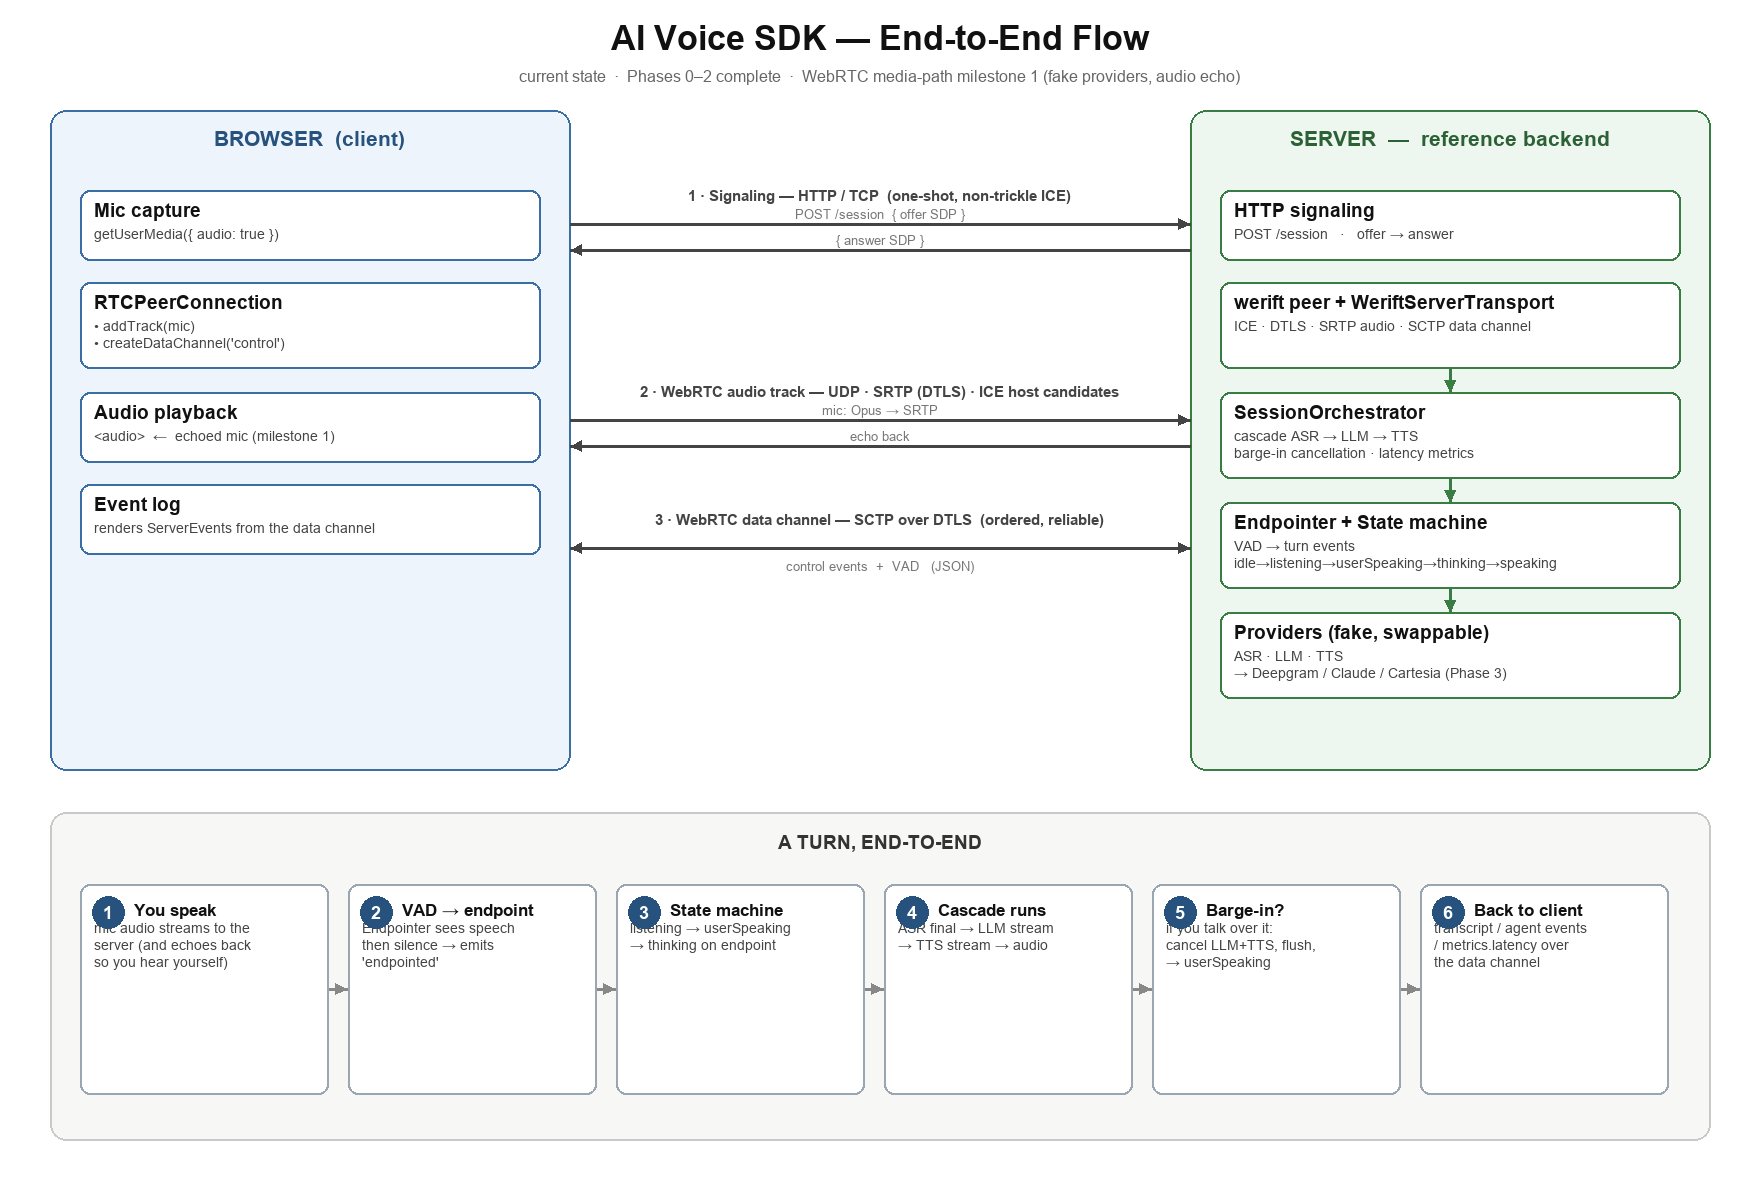
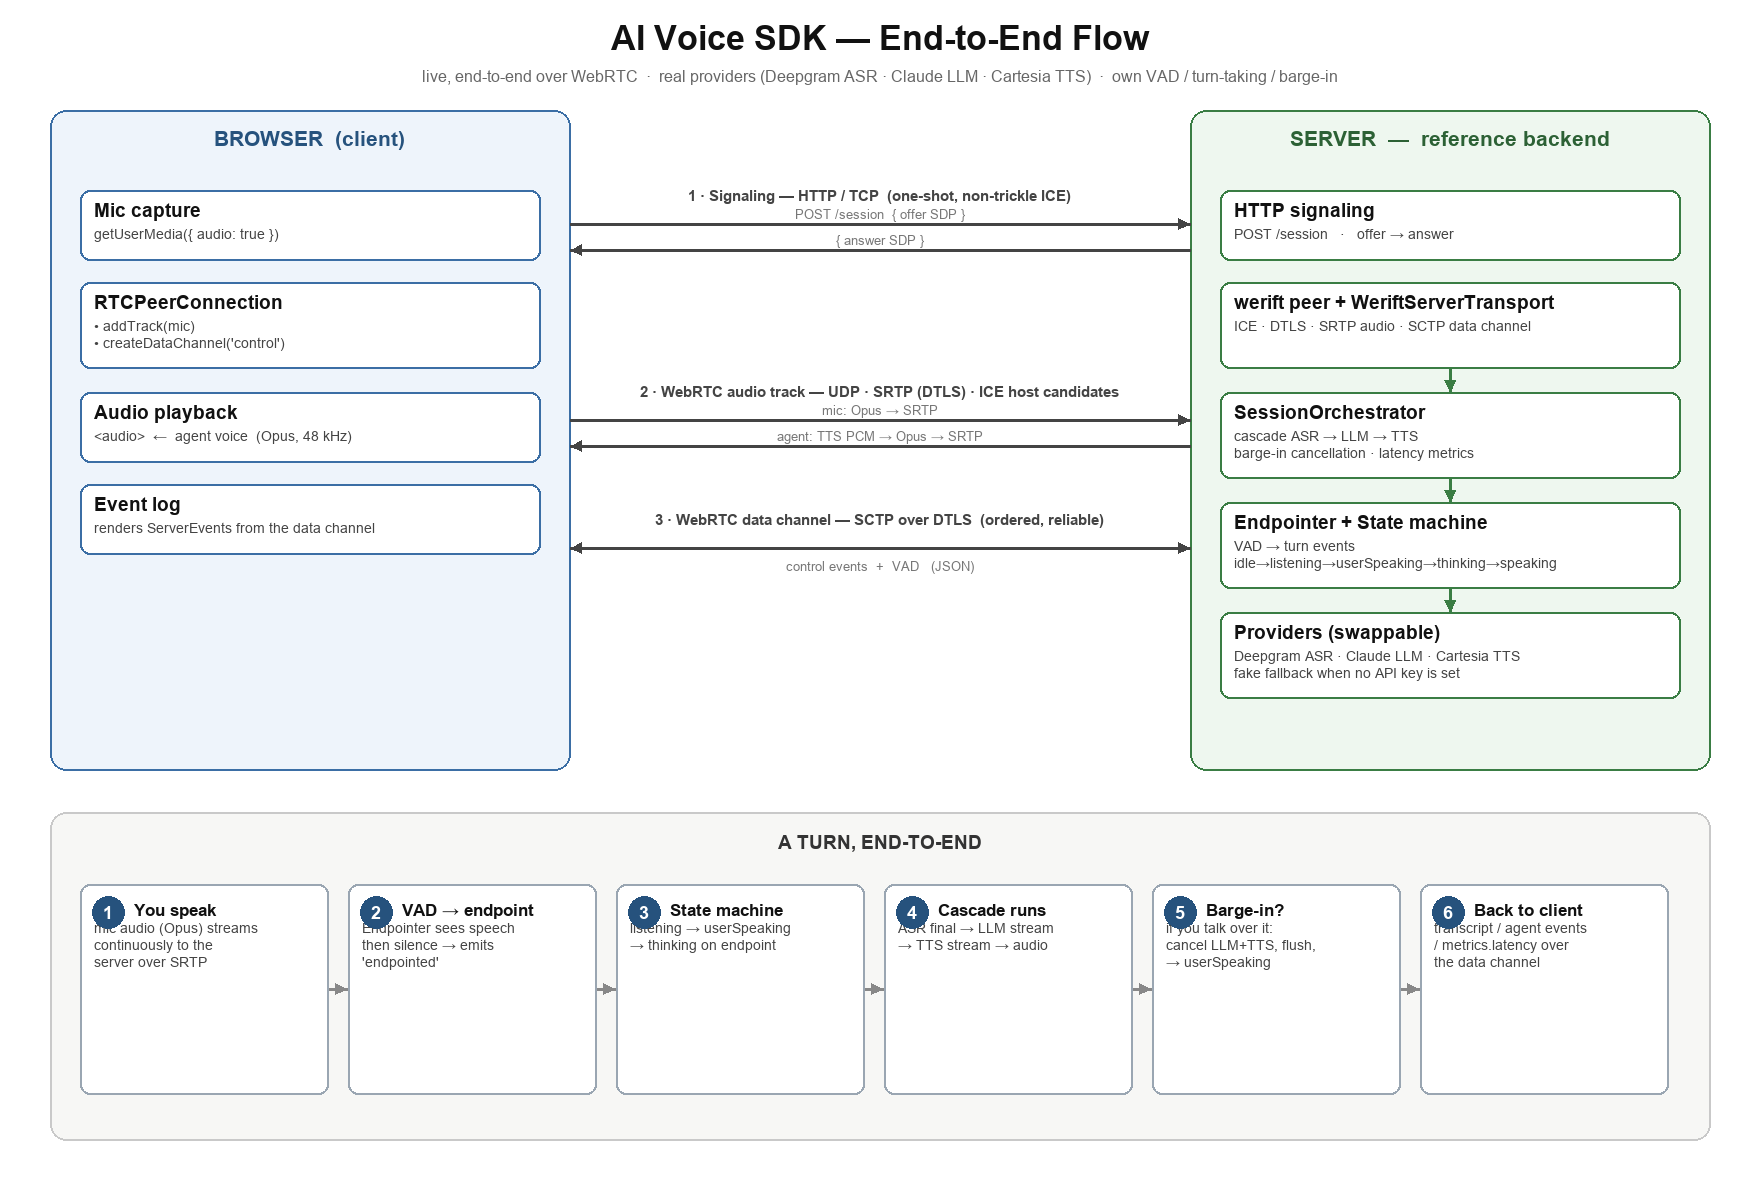
docs: rewrite README (TL;DR + deep dive) and refresh architecture diagram
- README reflects the now-working, deployed state (was stale "Phase 0
  scaffold / APIs are stubs"): short TL;DR section + verbose deep dive,
  clone-and-run quickstart, accurate monorepo layout and test count (70).
- Regenerate architecture-flow.png: real providers + agent voice instead
  of the old "fake providers / audio echo" labels.

diff --git a/docs/architecture-flow.py b/docs/architecture-flow.py
@@ -51,7 +51,7 @@ def arrow(x1, y1, x2, y2, color="#444", width=3):
 # --- title ---
 label(W / 2, 38, "AI Voice SDK — End-to-End Flow", 34, "#111", True)
 label(W / 2, 76,
-      "current state  ·  Phases 0–2 complete  ·  WebRTC media-path milestone 1 (fake providers, audio echo)",
+      "live, end-to-end over WebRTC  ·  real providers (Deepgram ASR · Claude LLM · Cartesia TTS)  ·  own VAD / turn-taking / barge-in",
       16, "#666")
 
 BLUE, GREEN = "#3b6ea5", "#3a7d44"
@@ -65,7 +65,7 @@ label(1450, 138, "SERVER  —  reference backend", 21, "#2c6135", True)
 # --- browser boxes ---
 box(80, 190, 460, 70, "Mic capture", "getUserMedia({ audio: true })", BLUE)
 box(80, 282, 460, 86, "RTCPeerConnection", "• addTrack(mic)\n• createDataChannel('control')", BLUE)
-box(80, 392, 460, 70, "Audio playback", "<audio>  ←  echoed mic (milestone 1)", BLUE)
+box(80, 392, 460, 70, "Audio playback", "<audio>  ←  agent voice  (Opus, 48 kHz)", BLUE)
 box(80, 484, 460, 70, "Event log", "renders ServerEvents from the data channel", BLUE)
 
 # --- server boxes ---
@@ -73,7 +73,7 @@ box(1220, 190, 460, 70, "HTTP signaling", "POST /session   ·   offer → answer
 box(1220, 282, 460, 86, "werift peer + WeriftServerTransport", "ICE · DTLS · SRTP audio · SCTP data channel", GREEN)
 box(1220, 392, 460, 86, "SessionOrchestrator", "cascade ASR → LLM → TTS\nbarge-in cancellation · latency metrics", GREEN)
 box(1220, 502, 460, 86, "Endpointer + State machine", "VAD → turn events\nidle→listening→userSpeaking→thinking→speaking", GREEN)
-box(1220, 612, 460, 86, "Providers (fake, swappable)", "ASR · LLM · TTS\n→ Deepgram / Claude / Cartesia (Phase 3)", GREEN)
+box(1220, 612, 460, 86, "Providers (swappable)", "Deepgram ASR · Claude LLM · Cartesia TTS\nfake fallback when no API key is set", GREEN)
 
 # --- connection bands (the gap between panels) ---
 GX1, GX2 = 570, 1190
@@ -88,7 +88,7 @@ label(880, 392, "2 · WebRTC audio track — UDP · SRTP (DTLS) · ICE host cand
 arrow(GX1, 420, GX2, 420)
 label(880, 410, "mic: Opus → SRTP", 13, "#777", anchor="mm")
 arrow(GX2, 446, GX1, 446)
-label(880, 436, "echo back", 13, "#777", anchor="mm")
+label(880, 436, "agent: TTS PCM → Opus → SRTP", 13, "#777", anchor="mm")
 
 label(880, 520, "3 · WebRTC data channel — SCTP over DTLS  (ordered, reliable)", 15, "#444", True)
 arrow(GX1, 548, GX2, 548)
@@ -105,7 +105,7 @@ d.rounded_rectangle([50, 812, 1710, 1140], radius=16, fill="#f7f7f5", outline="#
 label(880, 842, "A TURN, END-TO-END", 19, "#333", True)
 
 steps = [
-    ("You speak", "mic audio streams to the\nserver (and echoes back\nso you hear yourself)"),
+    ("You speak", "mic audio (Opus) streams\ncontinuously to the\nserver over SRTP"),
     ("VAD → endpoint", "Endpointer sees speech\nthen silence → emits\n'endpointed'"),
     ("State machine", "listening → userSpeaking\n→ thinking on endpoint"),
     ("Cascade runs", "ASR final → LLM stream\n→ TTS stream → audio"),

diff --git a/README.md b/README.md
@@ -1,62 +1,160 @@
 # AI Voice SDK
 
-A vendor-neutral SDK for building real-time AI voice sessions with WebRTC, interruption handling, and pluggable ASR/TTS/model providers.
+A from-scratch, **real-time AI voice agent** over WebRTC — talk to it, it talks back, interrupt it mid-sentence and it stops. Vendor-neutral: ASR, LLM, and TTS are pluggable adapters (defaults: **Deepgram · Claude · Cartesia**). The interesting part isn't the providers — it's the **session layer** that sits between them: server-side voice-activity detection, turn-taking, barge-in cancellation, and per-turn latency instrumentation.
 
-> Status: **Phase 0 — scaffold**. APIs are stubs; transport lands in Phase 1. See [`ai_voice_sdk_plan.md`](./ai_voice_sdk_plan.md).
+**TypeScript · WebRTC (werift) · 70 passing tests · Apache-2.0 · live demo deployed**
 
-## Why This Exists
+---
 
-Real-time AI voice products need more than ASR + LLM + TTS. They need session control, interruption handling, latency visibility, reconnect behavior, and clean client SDKs. This project owns that **session layer**.
+## TL;DR
 
-## Monorepo Layout
+> The short version — read this, skim the diagram, and you've got it.
 
-```text
-apps/
-  web-demo/                 Browser demo app
-  server/                   Reference backend (control plane + media engine)
-packages/
-  web-sdk/                  Public TypeScript SDK (VoiceSession)
-  protocol/                 Wire protocol — source of truth for shared types
-  provider-interfaces/      ASR / TTS / Model / Realtime adapter contracts
-docs/                       Architecture, RTC, providers, deployment, testing, observability
-infra/                      docker-compose + coturn (TURN) for the hosted demo
-examples/                   Minimal SDK consumers
-e2e/                        End-to-end tests (Phase 1+)
-```
-
-## Default Providers (V1, all swappable)
-
-| Category | Default  |
-| -------- | -------- |
-| ASR      | Deepgram |
-| TTS      | Cartesia |
-| LLM      | Claude   |
-
-## Develop
-
-Requires Node >= 20. Uses npm workspaces.
+- **What it is.** A reference backend + browser client that run a full voice loop: your mic → WebRTC → server-side turn detection → ASR → LLM → TTS → the agent's voice streamed back, all in ~1–1.4 s end-to-end.
+- **What's actually hard here** (and built from scratch, not bought): **endpointing** (knowing when *you* stopped talking), **turn-taking** as an explicit state machine, and **barge-in** — interrupt the agent and it cancels the in-flight LLM + TTS instantly.
+- **Vendor-neutral by design.** Each provider hides behind a small adapter interface. No API key for a stage? It transparently falls back to a fake, so the whole thing runs offline with zero credentials.
+- **Latency is a feature.** Every turn emits a breakdown (LLM first-token / generate / TTS) that the demo plots live, so the cost of each stage is visible instead of guessed at.
+- **Real WebRTC, server-side.** ICE / DTLS / SRTP / SCTP data channel via [`werift`](https://github.com/shinyoshiaki/werift-webrtc) — not a websocket pretending to be a call.
+- **Tested and deployed.** 70 unit/integration tests; running live behind TLS on a single small VPS.
 
 ```bash
-npm install        # install + link workspaces
-npm run build      # tsc -b across all packages (also typechecks)
-npm run lint       # eslint
-npm test           # vitest (unit/integration)
-npm run test:coverage
+git clone https://github.com/alitalari/rtc_sdk.git && cd rtc_sdk
+npm install && npm run build
+npm start -w @voice/server          # → open http://localhost:8080 and talk
+```
+No API keys required for that — it boots on fake providers (a tone + canned transcript) so you can see the whole pipeline work before wiring real ones.
+
+![End-to-end architecture and a single turn](docs/architecture-flow.png)
+
+---
+
+## Quickstart — clone & run
+
+**Prerequisites:** Node ≥ 20 and a Chromium/Firefox browser (microphone access needs a secure context — `localhost` counts).
+
+```bash
+# 1. Clone
+git clone https://github.com/alitalari/rtc_sdk.git
+cd rtc_sdk
+
+# 2. Install (npm workspaces) and build (tsc -b across all packages)
+npm install
+npm run build
+
+# 3. Run the reference server + demo page
+npm start -w @voice/server
+#    → "@voice/server dev server on http://localhost:8080"
+
+# 4. Open http://localhost:8080, click Connect, allow the mic, and talk.
 ```
 
-## Documentation
+Out of the box every stage uses a **fake provider** (the LLM returns a canned line, the TTS plays a tone), so the full WebRTC + turn-taking + barge-in loop works with **no credentials and no network**.
 
-- [Architecture](./docs/architecture.md)
-- [RTC / STUN / TURN](./docs/rtc.md)
-- [Provider adapters](./docs/providers.md)
-- [Deployment](./docs/deployment.md)
-- [Testing strategy](./docs/testing.md)
-- [Observability](./docs/observability.md)
+### Run it for real
 
-## Roadmap
+Drop your keys into a gitignored env file and the matching stages swap from fake → real automatically:
 
-Android SDK · iOS SDK · hosted STUN/TURN · hosted session orchestration · provider marketplace.
+```bash
+cp apps/server/.env.example apps/server/.env
+# edit apps/server/.env:
+#   DEEPGRAM_API_KEY=...     (console.deepgram.com)   → real ASR
+#   ANTHROPIC_API_KEY=...    (console.anthropic.com)  → real LLM (Claude)
+#   CARTESIA_API_KEY=...     (play.cartesia.ai)       → real TTS
+npm run build && npm start -w @voice/server
+```
+
+Each key is independent — set one, two, or all three; unset stages stay on the fake. Keys are read **server-side only** and never reach the browser.
+
+### Develop
+
+```bash
+npm run build          # tsc -b — also the typecheck
+npm test               # vitest — 70 tests across 9 files
+npm run test:coverage
+npm run lint           # eslint (flat config)
+npm run format         # prettier --check
+```
+
+### Live demo
+
+A hosted instance runs behind TLS + a password gate: **https://voice.alitalari.com** (access on request). The ungated health endpoint — `…/status` — returns which providers are live.
+
+---
+
+## Deep dive
+
+> The verbose version — architecture, the hard parts, and why they're built the way they are.
+
+### The problem this solves
+
+Gluing ASR → LLM → TTS together is a weekend project. Making it feel like a *conversation* is not. The session layer is where the real work lives:
+
+- **When did the user stop talking?** Too eager and you cut them off mid-sentence; too patient and the agent feels slow. This is *endpointing*, and it's tuned here, not delegated.
+- **Who's turn is it?** Listening, the user speaking, the agent thinking, the agent speaking — these are explicit states with explicit transitions, not implicit timing hacks.
+- **What happens when the user interrupts?** A real conversation lets you talk over the other person. *Barge-in* means the moment the user speaks, the in-flight LLM stream and TTS playback are cancelled and the floor returns to the user — within a frame.
+
+This repo owns those three things and treats the providers as swappable commodities underneath.
+
+### A turn, end to end
+
+1. **You speak.** The browser captures the mic (`getUserMedia`), Opus-encodes it, and streams it over an SRTP audio track to the server.
+2. **VAD → endpoint.** The server decodes the audio and runs an energy-based **voice-activity detector** with hangover smoothing. Sustained speech opens a turn; a silence threshold closes it (`endpointed`). Audio flows *continuously* to the ASR so it can do its own segmentation — the VAD drives *turn-taking*, not the transcript.
+3. **State machine.** `idle → listening → userSpeaking → thinking → speaking`. The endpoint event moves `userSpeaking → thinking`; the agent's audio completing moves `speaking → listening`.
+4. **Cascade runs.** On endpoint, the final transcript goes to the LLM. The response is streamed **sentence by sentence** — each completed sentence is sent to TTS immediately rather than waiting for the full answer, which is the single biggest latency win.
+5. **Barge-in.** If the user speaks while the agent is talking, a generation counter invalidates the in-flight response: the LLM stream is aborted, queued TTS is flushed, and the state machine snaps back to `userSpeaking`.
+6. **Back to the client.** Transcript fragments, agent text, and a `metrics.latency` breakdown (LLM first-token / generate / TTS) stream over the WebRTC **data channel** and render live in the demo.
+
+### Transport: real WebRTC, server-side
+
+The server is a genuine WebRTC peer via [`werift`](https://github.com/shinyoshiaki/werift-webrtc) (pure TypeScript): ICE, DTLS, SRTP for audio, and an SCTP data channel for control. Signaling is a single non-trickle `POST /session` (offer → answer). Inbound mic audio is Opus-decoded for VAD + ASR; the agent's voice is PCM → Opus-encoded onto an owned return track. This is a real call, not a websocket audio relay.
+
+### Pluggability: the adapter seams
+
+Two narrow interfaces make everything swappable:
+
+- **`ServerTransport`** — how the session layer talks to the outside world (send audio, send events, receive audio/VAD/control). The WebRTC implementation is one impl; tests use an in-memory loopback impl. The orchestrator has no idea WebRTC exists.
+- **ASR / Model / TTS adapters** — each provider is ~100 lines behind a streaming interface. Deepgram, Claude, and Cartesia are the real ones; the fakes implement the same contracts with realistic timing so the demo behaves like the real thing offline.
+
+That seam is the point: the session logic is provider-agnostic and transport-agnostic, which is exactly what makes it testable.
+
+### Latency
+
+System latency (your endpoint → first agent audio) runs ~1.0–1.4 s and is dominated by LLM time-to-first-token (~500–900 ms, a network/model floor). The wins that are in our control are all implemented: **sentence-streaming** the LLM→TTS handoff, a **connection warmup** on the LLM client, and a capped prompt/history so context stays small. The demo's stacked latency chart makes each stage's contribution visible per turn.
+
+### Monorepo layout
+
+```text
+packages/
+  session/              VAD, endpointer, turn-taking state machine (pure, no I/O)
+  media/                energy VAD, hangover gate, resampling
+  orchestrator/         the ASR→LLM→TTS cascade, barge-in, latency metrics
+  protocol/             wire types — client/server events, latency metrics
+  provider-interfaces/  ASR / Model / TTS / Transport adapter contracts
+  fake-providers/       offline fakes with realistic timing
+  web-sdk/              browser-side session helper
+apps/
+  server/               reference backend: werift transport + real providers + demo page
+  web-demo/             browser demo scaffold
+docs/                   architecture, rtc, providers, deployment, testing, observability
+```
+
+The dependency arrow only points one way: `session` and `media` are pure and know nothing about providers or WebRTC; the `orchestrator` wires them to adapters; `apps/server` picks the concrete providers and transport.
+
+### Testing
+
+70 tests (vitest) concentrate on the parts where correctness is subtle and bugs are silent: the state machine's transition table, endpointing thresholds, the VAD hangover gate, resampling, and the orchestrator's barge-in cancellation (via the loopback transport). The bias is toward tests that encode *why* a behavior matters — e.g. a barge-in test fails if a cancelled turn is ever reported as completed.
+
+### Docs
+
+- [Architecture](./docs/architecture.md) · [RTC / STUN / TURN](./docs/rtc.md) · [Providers](./docs/providers.md)
+- [Deployment](./docs/deployment.md) · [Testing](./docs/testing.md) · [Observability](./docs/observability.md)
+
+---
+
+## About
+
+Built as a deep-dive into real-time media engineering — owning the session layer (turn-taking, barge-in, latency) rather than calling a hosted voice API. Open source under **Apache-2.0**; contributions and questions welcome via issues.
 
 ## License
 
-Open-core: Apache 2.0 for SDK / protocol / reference backend; managed control plane is the commercial layer.
+[Apache-2.0](./LICENSE).